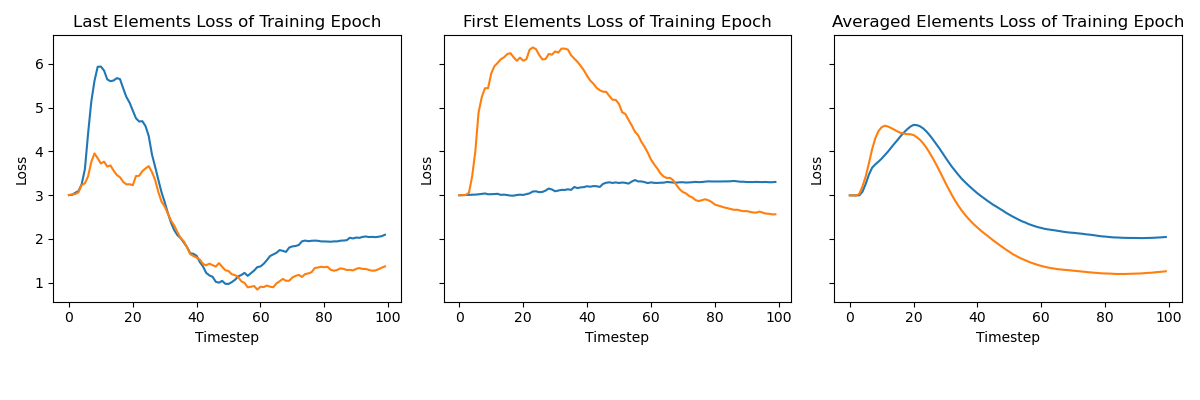
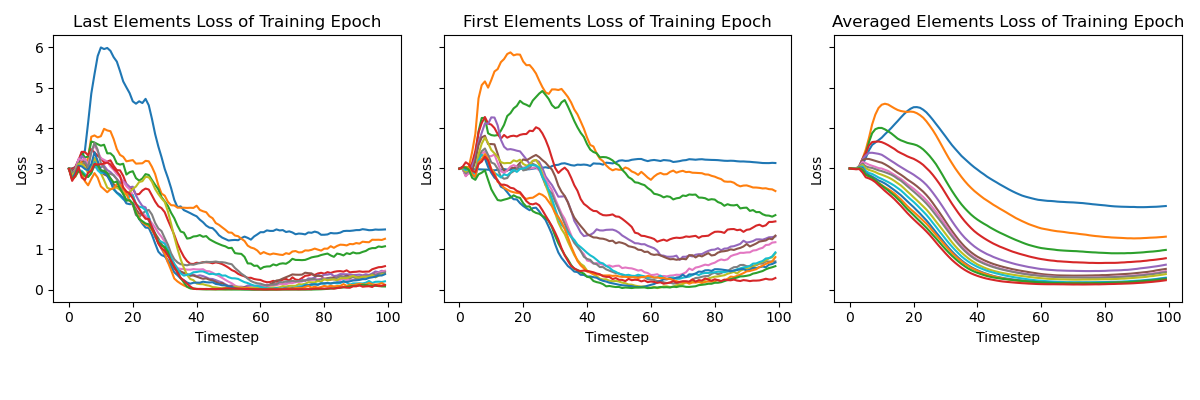
more parameters for layer development investigation

diff --git a/heidelberg_implementation/layer_development_investigation_experiment.py b/heidelberg_implementation/layer_development_investigation_experiment.py
@@ -1,80 +1,54 @@
 from neural_nets.configurable_spiking_neural_net import ConfigurableSpikingNeuralNet
 from training.train_simplified_snn import train_simplified_snn
-from constants import NUMBER_INPUT_NEURONS, NUMBER_OUTPUT_NEURONS, BETA, TIME_STEPS
+from constants import NUMBER_INPUT_NEURONS, NUMBER_OUTPUT_NEURONS, TIME_STEPS
+from itertools import product
 
-best_sparsity = 0
-best_number_hidden_layer = 2
-best_number_hidden_neurons = 3000
+BEST_NUMBER_HIDDEN_LAYER = 2
+BEST_NUMBER_HIDDEN_NEURONS = 3000
+SPARSITY_PARAMETERS = [0, 0.2, 0.7, 0.95]
+BETA_PARAMETERS = [0.99, 0.8, 0.5, 0.2]
+THRESHOLD_PARAMETERS = [0.7, 1, 3]
 
-num_epochs = 14
-
-def create_best_grid_search_model(sparsity = 0.0):
+def create_best_grid_search_model(sparsity, beta, threshold):
     return ConfigurableSpikingNeuralNet(number_input_neurons=NUMBER_INPUT_NEURONS,
-                                                 number_hidden_neurons=best_number_hidden_neurons,
+                                                 number_hidden_neurons=BEST_NUMBER_HIDDEN_NEURONS,
                                                  number_output_neurons=NUMBER_OUTPUT_NEURONS,
-                                                 beta=BETA,
+                                                 beta=beta,
+                                                 threshold=threshold,
                                                  time_steps=TIME_STEPS,
-                                                 number_hidden_layers=best_number_hidden_layer,
+                                                 number_hidden_layers=BEST_NUMBER_HIDDEN_LAYER,
                                                  sparsity=sparsity)
 
-best_grid_search_model = create_best_grid_search_model()
-best_grid_search_model_80_percent_of_connections = create_best_grid_search_model(sparsity=0.2)
-best_grid_search_model_50_percent_of_connections = create_best_grid_search_model(sparsity=0.5) 
-best_grid_search_model_20_percent_of_connections = create_best_grid_search_model(sparsity=0.8)
-best_grid_search_model_5_percent_of_connections = create_best_grid_search_model(sparsity=0.95)
+PARAMETER_COMBINATIONS = list(product(SPARSITY_PARAMETERS, BETA_PARAMETERS, THRESHOLD_PARAMETERS))
+
+ALL_CONFIGURATIONS = [{
+        'model':create_best_grid_search_model(sparsity, beta, threshold),
+        'sparsity': sparsity,
+        'beta': beta,
+        'threshold': threshold
+    } for sparsity, beta, threshold in PARAMETER_COMBINATIONS]
+
+num_epochs = 'early_stopping'
 
 if __name__ == '__main__':
-    train_simplified_snn(best_grid_search_model, 
-                        num_epochs=num_epochs, 
-                        save_model='./models/experiment_layer_development_investigation/best_grid_search', 
-                        save_plots='./output/experiments_layer_development_investigation/best_grid_search', 
-                        additional_output_information={
-                            'num_hidden_layer': best_number_hidden_layer,
-                            'num_hidden_neurons': best_number_hidden_neurons,
-                            'sparsity': 0
-                        },
-                        output_file_path='./output/experiments_layer_development_investigation/best_grid_search.json')
+    for configuration in ALL_CONFIGURATIONS:
+        model = configuration["model"]
+        sparsity = configuration["sparsity"]
+        beta = configuration["beta"]
+        threshold = configuration["threshold"]
+
+        print(f'sparsity: {sparsity} | beta: {beta} | threshold: {threshold}')
+
+        train_simplified_snn(model, 
+                            num_epochs=num_epochs, 
+                            save_model=f'./models/experiment_layer_development_investigation/best_grid_search_sparsity_{sparsity}_beta_{beta}_threshold_{threshold}', 
+                            save_plots=f'./output/experiments_layer_development_investigation/best_grid_search_sparsity_{sparsity}_beta_{beta}_threshold_{threshold}', 
+                            additional_output_information={
+                                'num_hidden_layer': BEST_NUMBER_HIDDEN_LAYER,
+                                'num_hidden_neurons': BEST_NUMBER_HIDDEN_NEURONS,
+                                'sparsity': sparsity,
+                                'beta': beta,
+                                'threshold': threshold
+                            },
+                            output_file_path=f'./output/experiments_layer_development_investigation/best_grid_search_sparsity_{sparsity}_beta_{beta}_threshold_{threshold}.json')
     
-    train_simplified_snn(best_grid_search_model_80_percent_of_connections, 
-                        num_epochs=num_epochs, 
-                        save_model='./models/experiment_layer_development_investigation/best_grid_search_80_percent_connections', 
-                        save_plots='./output/experiments_layer_development_investigation/best_grid_search_80_percent_connections', 
-                        additional_output_information={
-                            'num_hidden_layer': best_number_hidden_layer,
-                            'num_hidden_neurons': best_number_hidden_neurons,
-                            'sparsity': 0.2
-                        },
-                        output_file_path='./output/experiments_layer_development_investigation/best_grid_search_80_percent_connections.json')
-    
-    train_simplified_snn(best_grid_search_model_50_percent_of_connections, 
-                        num_epochs=num_epochs, 
-                        save_model='./models/experiment_layer_development_investigation/best_grid_search_50_percent_connections', 
-                        save_plots='./output/experiments_layer_development_investigation/best_grid_search_50_percent_connections', 
-                        additional_output_information={
-                            'num_hidden_layer': best_number_hidden_layer,
-                            'num_hidden_neurons': best_number_hidden_neurons,
-                            'sparsity': 0.5
-                        },
-                        output_file_path='./output/experiments_layer_development_investigation/best_grid_search_50_percent_connections.json')
-    
-    train_simplified_snn(best_grid_search_model_20_percent_of_connections, 
-                        num_epochs=num_epochs, 
-                        save_model='./models/experiment_layer_development_investigation/best_grid_search_20_percent_connections', 
-                        save_plots='./output/experiments_layer_development_investigation/best_grid_search_20_percent_connections', 
-                        additional_output_information={
-                            'num_hidden_layer': best_number_hidden_layer,
-                            'num_hidden_neurons': best_number_hidden_neurons,
-                            'sparsity': 0.8
-                        },
-                        output_file_path='./output/experiments_layer_development_investigation/best_grid_search_20_percent_connections.json')
-    
-    train_simplified_snn(best_grid_search_model_5_percent_of_connections, 
-                        num_epochs=num_epochs, 
-                        save_model='./models/experiment_layer_development_investigation/best_grid_search_5_percent_connections', 
-                        save_plots='./output/experiments_layer_development_investigation/best_grid_search_5_percent_connections', 
-                        additional_output_information={
-                            'num_hidden_layer': best_number_hidden_layer,
-                            'num_hidden_neurons': best_number_hidden_neurons,
-                            'sparsity': 0.95
-                        },
-                        output_file_path='./output/experiments_layer_development_investigation/best_grid_search_5_percent_connections.json')

diff --git a/heidelberg_implementation/best_configurations_experiment.py b/heidelberg_implementation/best_configurations_experiment.py
@@ -1,6 +1,6 @@
 from neural_nets.configurable_spiking_neural_net import ConfigurableSpikingNeuralNet
 from training.train_simplified_snn import train_simplified_snn
-from constants import NUMBER_INPUT_NEURONS, NUMBER_HIDDEN_NEURONS, NUMBER_OUTPUT_NEURONS, BETA, TIME_STEPS, NUMBER_HIDDEN_LAYERS
+from constants import NUMBER_INPUT_NEURONS, NUMBER_HIDDEN_NEURONS, NUMBER_OUTPUT_NEURONS, THRESHOLD, BETA, TIME_STEPS, NUMBER_HIDDEN_LAYERS
 
 best_sparsity = 0
 best_number_hidden_layer = 2
@@ -11,6 +11,7 @@ best_sparsity_model = ConfigurableSpikingNeuralNet(number_input_neurons=NUMBER_I
                                                  number_hidden_neurons=NUMBER_HIDDEN_NEURONS,
                                                  number_output_neurons=NUMBER_OUTPUT_NEURONS,
                                                  beta=BETA,
+                                                 threshold=THRESHOLD,
                                                  time_steps=TIME_STEPS,
                                                  number_hidden_layers=NUMBER_HIDDEN_LAYERS,
                                                  sparsity=0)
@@ -19,6 +20,7 @@ best_number_hidden_layer_model = ConfigurableSpikingNeuralNet(number_input_neuro
                                                  number_hidden_neurons=NUMBER_HIDDEN_NEURONS,
                                                  number_output_neurons=NUMBER_OUTPUT_NEURONS,
                                                  beta=BETA,
+                                                 threshold=THRESHOLD,
                                                  time_steps=TIME_STEPS,
                                                  number_hidden_layers=best_number_hidden_layer,
                                                  sparsity=0)
@@ -27,6 +29,7 @@ best_number_hidden_neurons_model = ConfigurableSpikingNeuralNet(number_input_neu
                                                  number_hidden_neurons=best_number_hidden_neurons,
                                                  number_output_neurons=NUMBER_OUTPUT_NEURONS,
                                                  beta=BETA,
+                                                 threshold=THRESHOLD,
                                                  time_steps=TIME_STEPS,
                                                  number_hidden_layers=NUMBER_HIDDEN_LAYERS,
                                                  sparsity=0)
@@ -35,6 +38,7 @@ best_grid_search_model = ConfigurableSpikingNeuralNet(number_input_neurons=NUMBE
                                                  number_hidden_neurons=3000,
                                                  number_output_neurons=NUMBER_OUTPUT_NEURONS,
                                                  beta=BETA,
+                                                 threshold=THRESHOLD,
                                                  time_steps=TIME_STEPS,
                                                  number_hidden_layers=2,
                                                  sparsity=0)

diff --git a/heidelberg_implementation/neural_nets/configurable_spiking_neural_net.py b/heidelberg_implementation/neural_nets/configurable_spiking_neural_net.py
@@ -8,6 +8,7 @@ class ConfigurableSpikingNeuralNet(nn.Module):
                  number_hidden_neurons, 
                  number_output_neurons, 
                  beta, 
+                 threshold,
                  time_steps, 
                  number_hidden_layers, 
                  sparsity):
@@ -20,14 +21,14 @@ class ConfigurableSpikingNeuralNet(nn.Module):
         layers = []
 
         layers.append(nn.Linear(number_input_neurons, number_hidden_neurons))
-        self.lifs.append(snn.Leaky(beta=beta))
+        self.lifs.append(snn.Leaky(beta=beta, threshold=threshold))
 
         for _ in range(number_hidden_layers - 1):
             layers.append(nn.Linear(number_hidden_neurons, number_hidden_neurons))
-            self.lifs.append(snn.Leaky(beta=beta))
+            self.lifs.append(snn.Leaky(beta=beta, threshold=threshold))
 
         layers.append(nn.Linear(number_hidden_neurons, number_output_neurons))
-        self.lifs.append(snn.Leaky(beta=beta))
+        self.lifs.append(snn.Leaky(beta=beta, threshold=threshold))
 
         self.linears = nn.ModuleList(layers)
 
@@ -36,7 +37,6 @@ class ConfigurableSpikingNeuralNet(nn.Module):
                 if "weight" in name:
                     mask = (torch.rand_like(param) > sparsity).float()
                     param.mul_(mask)
-
     
     def forward(self, x):
         mems = []

diff --git a/heidelberg_implementation/number_hidden_neurons_experiment.py b/heidelberg_implementation/number_hidden_neurons_experiment.py
@@ -1,6 +1,6 @@
 from neural_nets.configurable_spiking_neural_net import ConfigurableSpikingNeuralNet
 import numpy as np
-from constants import NUMBER_INPUT_NEURONS, NUMBER_OUTPUT_NEURONS, BETA, TIME_STEPS, NUMBER_HIDDEN_LAYERS
+from constants import NUMBER_INPUT_NEURONS, NUMBER_OUTPUT_NEURONS, BETA, TIME_STEPS, NUMBER_HIDDEN_LAYERS, THRESHOLD
 from training.train_simplified_snn import train_simplified_snn
 
 NUM_HIDDEN_NEURONS = np.arange(500, 5500, 500)
@@ -13,7 +13,8 @@ for number_hidden_neurons in NUM_HIDDEN_NEURONS:
     model = ConfigurableSpikingNeuralNet(number_input_neurons=NUMBER_INPUT_NEURONS, 
                                          number_hidden_neurons=number_hidden_neurons,
                                          number_output_neurons=NUMBER_OUTPUT_NEURONS, 
-                                         beta=BETA, 
+                                         beta=BETA,
+                                         threshold=THRESHOLD,
                                          time_steps=TIME_STEPS,
                                          number_hidden_layers=NUMBER_HIDDEN_LAYERS,
                                          sparsity=0)

diff --git a/heidelberg_implementation/grid_search_early_stopping_experiment.py b/heidelberg_implementation/grid_search_early_stopping_experiment.py
@@ -1,6 +1,6 @@
 from neural_nets.configurable_spiking_neural_net import ConfigurableSpikingNeuralNet
 import numpy as np
-from constants import NUMBER_INPUT_NEURONS, NUMBER_OUTPUT_NEURONS, BETA, TIME_STEPS, NUMBER_HIDDEN_LAYERS
+from constants import NUMBER_INPUT_NEURONS, NUMBER_OUTPUT_NEURONS, BETA, THRESHOLD, TIME_STEPS
 from training.train_simplified_snn import train_simplified_snn
 
 HIDDEN_NEURONS = np.arange(1000, 4000, 1000)
@@ -18,6 +18,7 @@ for number_hidden_neurons in HIDDEN_NEURONS:
                                             number_hidden_neurons=number_hidden_neurons,
                                             number_output_neurons=NUMBER_OUTPUT_NEURONS, 
                                             beta=BETA, 
+                                            threshold=THRESHOLD,
                                             time_steps=TIME_STEPS,
                                             number_hidden_layers=number_hidden_layer,
                                             sparsity=0)

diff --git a/heidelberg_implementation/sparsity_experiment.py b/heidelberg_implementation/sparsity_experiment.py
@@ -1,6 +1,6 @@
 import torch
 from neural_nets.configurable_spiking_neural_net import ConfigurableSpikingNeuralNet
-from constants import NUMBER_INPUT_NEURONS, NUMBER_HIDDEN_NEURONS, NUMBER_HIDDEN_LAYERS, NUMBER_OUTPUT_NEURONS, BETA, TIME_STEPS, DEVICE
+from constants import NUMBER_INPUT_NEURONS, NUMBER_HIDDEN_NEURONS, NUMBER_HIDDEN_LAYERS, THRESHOLD, NUMBER_OUTPUT_NEURONS, BETA, TIME_STEPS, DEVICE
 from training.train_simplified_snn import train_simplified_snn
 
 def count_nonzero_weights(model):
@@ -29,6 +29,7 @@ if __name__ == '__main__':
                                            number_hidden_layers=NUMBER_HIDDEN_LAYERS,
                                            number_output_neurons=NUMBER_OUTPUT_NEURONS, 
                                            beta=BETA, 
+                                           threshold=THRESHOLD,
                                            time_steps=TIME_STEPS, 
                                            sparsity=sparsity).to(DEVICE)
         

diff --git a/heidelberg_implementation/number_hidden_layer_experiment.py b/heidelberg_implementation/number_hidden_layer_experiment.py
@@ -1,5 +1,5 @@
 from neural_nets.configurable_spiking_neural_net import ConfigurableSpikingNeuralNet
-from constants import NUMBER_INPUT_NEURONS, NUMBER_HIDDEN_NEURONS, NUMBER_OUTPUT_NEURONS, BETA, TIME_STEPS
+from constants import NUMBER_INPUT_NEURONS, NUMBER_HIDDEN_NEURONS, NUMBER_OUTPUT_NEURONS, BETA, TIME_STEPS, THRESHOLD
 from training.train_simplified_snn import train_simplified_snn
 
 NUM_HIDDEN_LAYERS = [
@@ -18,6 +18,7 @@ for number_hidden_layer in NUM_HIDDEN_LAYERS:
                                          number_hidden_neurons=NUMBER_HIDDEN_NEURONS, 
                                          number_output_neurons=NUMBER_OUTPUT_NEURONS, 
                                          beta=BETA, 
+                                         threshold=THRESHOLD,
                                          time_steps=TIME_STEPS, 
                                          number_hidden_layers=number_hidden_layer,
                                          sparsity=0)

diff --git a/heidelberg_implementation/training/train_simplified_snn.py b/heidelberg_implementation/training/train_simplified_snn.py
@@ -162,9 +162,9 @@ def train_simplified_snn(net, num_epochs, save_model: Union[bool, str]=False, sa
     time_diff = end - start
 
     if isinstance(save_plots, str):
-        save_history_plot(loss_history, path=f'{save_plots}_simplified_loss')
-        save_history_plot(acc_history, path=f'{save_plots}_simplified_accuracy')
-        save_loss_per_time_step_plot(epoch_loss_per_time_step, path=f'{save_plots}_loss_per_time_steps')
+        save_history_plot(loss_history, path=f'{save_plots}_simplified_loss.png')
+        save_history_plot(acc_history, path=f'{save_plots}_simplified_accuracy.png')
+        save_loss_per_time_step_plot(epoch_loss_per_time_step, path=f'{save_plots}_loss_per_time_steps.png')
 
     test_set_accuracy = compute_test_set_accuracy(test_data_loader, net)
 

diff --git a/heidelberg_implementation/constants.py b/heidelberg_implementation/constants.py
@@ -11,5 +11,8 @@ NUMBER_OUTPUT_NEURONS = 20
 NUMBER_HIDDEN_LAYERS = 1
 
 MAX_TIME = 1.4
+
 BETA = 0.99
+THRESHOLD = 1
+
 DEVICE = get_device()
